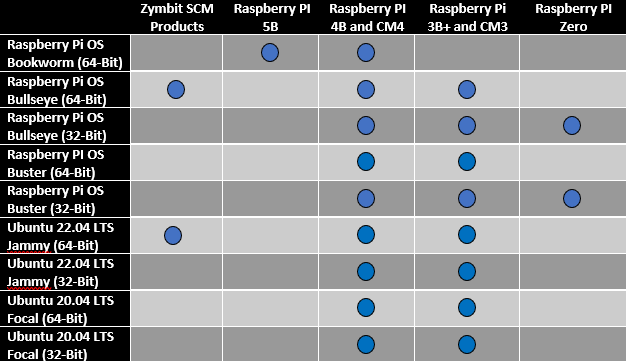
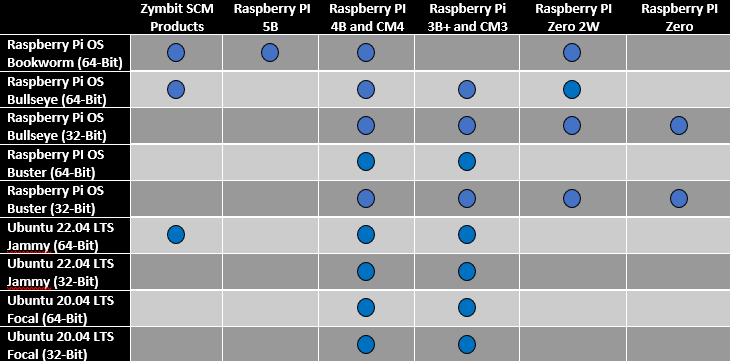
Updated platform matrices

diff --git a/content/_index.md b/content/_index.md
@@ -15,16 +15,24 @@ Welcome to Zymbit’s Documentation Site! Here, you will find all the resources 
 ### Recent Activity
 <br>
 
+
+#### June 2024
+-----
+Bookworm 64-bit support added as an option for the SCM.
+
+Bootware 1.0 Full includes support for Bookworm 64-bit; Also includes cross-platform support for ZYMKEY on CM4 and RPi4.The Product Matrix has been updated.
+
+<br>
+![supported OSs](supported-os-dots.png) 
+<br>
+
+<br>
+![Bootware Platform Support](supported-bootware-dots.png) 
+<br>
+
 #### April 2024
 -----
 Bootware 1.0 is now released for General Availability. Along with Bootware 1.0 GA, The SCM/SEN product line now officially supports both Bullseye 64-bit and Ubuntu 22.04 64-bit.
-
-Updated Product Matrix:
-
-<br>
-
-![supported OSs](supported-os-dots.png) 
-<br>
 
 
 #### March 2024
